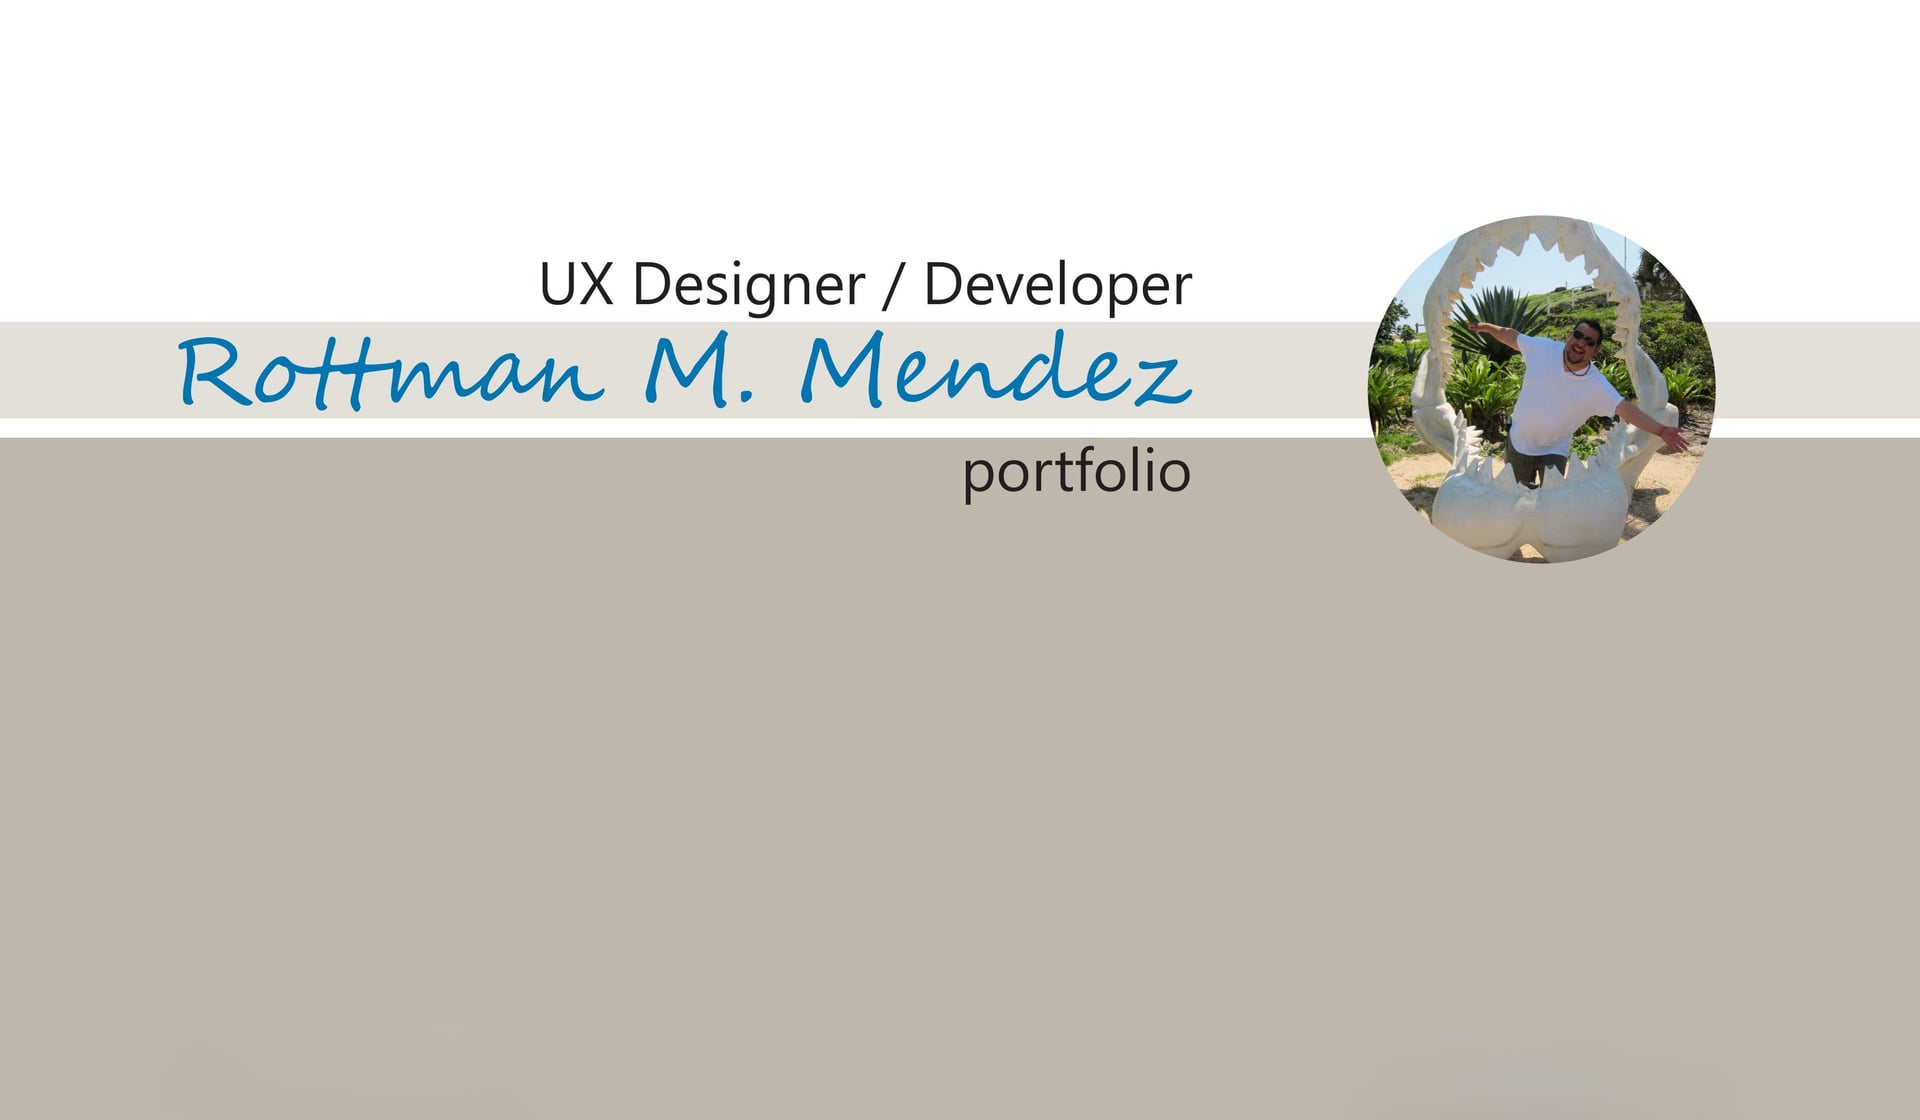
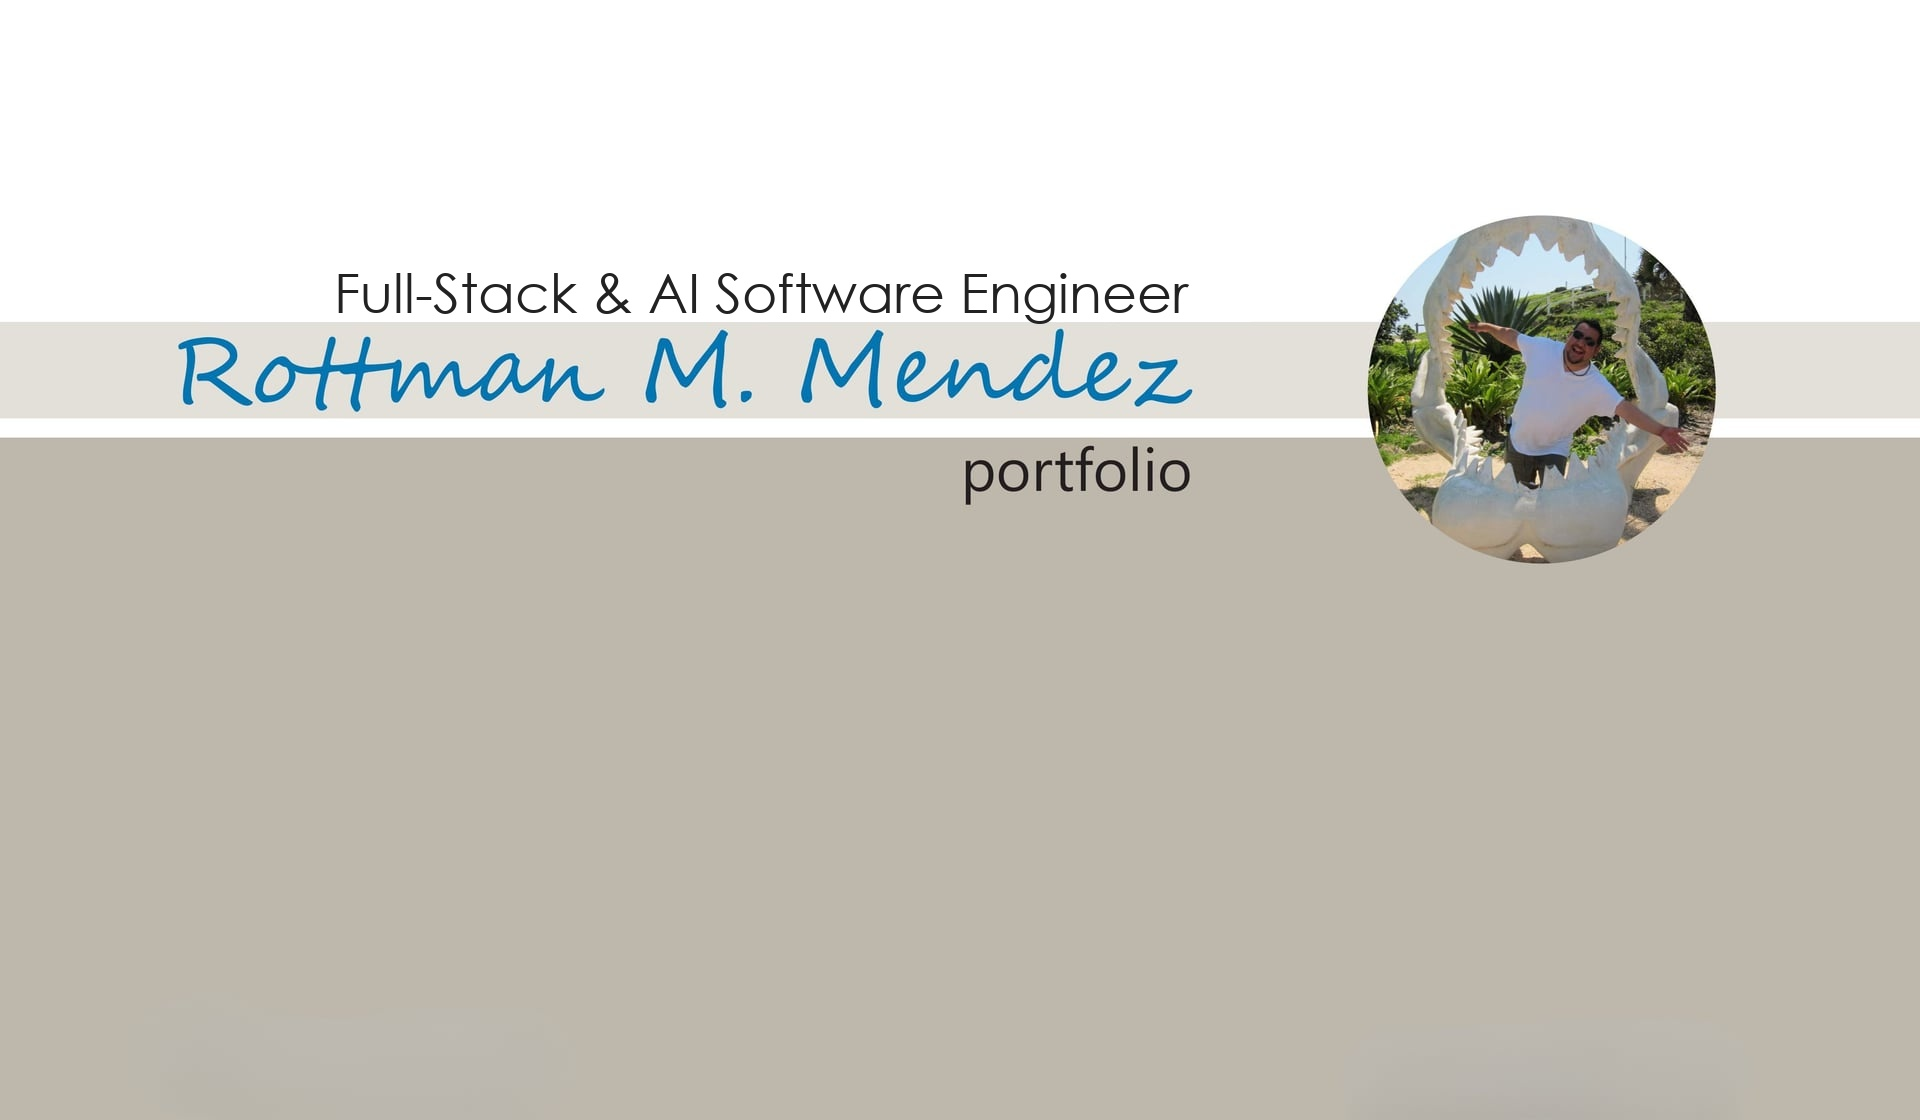
fix(branding): align site titles, metadata, hero copy and graphic with Full-Stack & AI Software Engineer

Changed region(s): [[0.1562, 0.2188, 0.625, 0.2812]]

diff --git a/src/app/layout.tsx b/src/app/layout.tsx
@@ -12,30 +12,32 @@ const inter = Inter({ subsets: ['latin'] });
 export const metadata: Metadata = {
   metadataBase: new URL('https://rottym.com'),
   title: {
-    default: 'Rottman M. Mendez | Full-Stack Web Developer & UX Designer · Reston, VA',
-    template: '%s | RottyM · Reston, VA',
+    default: 'Rottman M. Mendez | Full-Stack & AI Software Engineer · Reston, VA',
+    template: '%s | RottyM · Full-Stack & AI Software Engineer',
   },
   description:
-    'High-performance Next.js websites, custom client portals, and WordPress migrations for businesses in Reston, Fairfax, and Northern Virginia. Enterprise-grade full-stack engineering with fixed pricing.',
+    'High-performance Next.js web applications, AI-augmented cloud platforms, and custom portals for businesses and technical teams in Reston and Northern Virginia. Enterprise full-stack engineering with fixed pricing.',
   keywords: [
-    'Reston web developer',
-    'Northern Virginia web development',
+    'Full-Stack & AI Software Engineer',
+    'AI software engineer Virginia',
+    'Reston software engineer',
     'NoVA full stack developer',
-    'WordPress migration specialist',
     'Next.js developer Virginia',
+    'LLM & RAG integration',
+    'UI/UX Architecture',
+    'WordPress migration specialist',
     'client portal development',
     'custom web applications Reston',
     'React developer DC metro',
-    'local business website design NoVA',
     'RottyM',
   ],
   authors: [{ name: 'Rottman M. Mendez', url: 'https://rottym.com' }],
   creator: 'Rottman M. Mendez',
   publisher: 'Rottman M. Mendez',
   openGraph: {
-    title: 'Rottman M. Mendez | Full-Stack Web Developer & UX Designer · Reston, VA',
+    title: 'Rottman M. Mendez | Full-Stack & AI Software Engineer · Reston, VA',
     description:
-      'Building fast, modern sites that replace slow WordPress. Fixed-price web development and custom client portals for Reston & Northern Virginia businesses.',
+      'Building high-performance web applications, custom portals, and AI-augmented platforms with deep UI/UX architecture expertise for Reston & Northern Virginia businesses.',
     url: 'https://rottym.com',
     siteName: 'RottyM · Full Stack & AI Software Engineer',
     locale: 'en_US',
@@ -45,15 +47,15 @@ export const metadata: Metadata = {
         url: '/images/portfolio/rottman-hero.jpg',
         width: 1200,
         height: 630,
-        alt: 'Rottman M. Mendez - Full-Stack Developer & UX Designer',
+        alt: 'Rottman M. Mendez - Full-Stack & AI Software Engineer',
       },
     ],
   },
   twitter: {
     card: 'summary_large_image',
-    title: 'Rottman M. Mendez | Full-Stack Web Developer · Reston, VA',
+    title: 'Rottman M. Mendez | Full-Stack & AI Software Engineer · Reston, VA',
     description:
-      'Building fast, modern sites that replace slow WordPress. Fixed-price web development and client portals for Reston & Northern Virginia businesses.',
+      'Building high-performance web applications, custom portals, and AI-augmented platforms with deep UI/UX architecture expertise for Reston & Northern Virginia businesses.',
     images: ['/images/portfolio/rottman-hero.jpg'],
   },
   robots: {
@@ -75,7 +77,7 @@ export const metadata: Metadata = {
 const jsonLd = {
   '@context': 'https://schema.org',
   '@type': 'ProfessionalService',
-  name: 'RottyM - Full-Stack Developer & UX Designer',
+  name: 'RottyM - Full-Stack & AI Software Engineer',
   image: 'https://rottym.com/images/portfolio/rottman-hero.jpg',
   '@id': 'https://rottym.com',
   url: 'https://rottym.com',
@@ -105,21 +107,22 @@ const jsonLd = {
   founder: {
     '@type': 'Person',
     name: 'Rottman M. Mendez',
-    jobTitle: 'Full-Stack Software Engineer & UX Designer',
+    jobTitle: 'Full-Stack & AI Software Engineer',
     url: 'https://rottym.com',
   },
   knowsAbout: [
+    'AI Systems & LLM Orchestration',
     'Next.js',
     'React',
     'TypeScript',
+    'UI/UX Architecture',
+    'Cloud Architecture (GCP, AWS, Firebase)',
     'WordPress Migration',
     'Client Portals',
-    'Cloud Architecture',
-    'UX Design',
     'Full-Stack Web Development',
   ],
   description:
-    'High-performance web development, custom client portals, and WordPress escape rebuilds for businesses in Reston and Northern Virginia.',
+    'High-performance web development, custom client portals, and AI-augmented cloud platforms for businesses in Reston and Northern Virginia.',
 };
 
 export default function RootLayout({ children }: { children: React.ReactNode }) {

diff --git a/src/app/page.tsx b/src/app/page.tsx
@@ -110,7 +110,7 @@ export default function Home() {
             </div>
 
             <p className="text-lg sm:text-xl text-muted-foreground leading-relaxed max-w-xl font-medium">
-              Reston-based full-stack developer and UX designer. I build high-performance sites, custom portals, and WordPress escape rebuilds with the precision of enterprise work at Disney, FEMA, and BAE Systems.
+              Reston-based Full-Stack &amp; AI Software Engineer with deep UI/UX architecture expertise. I build high-performance web platforms, custom portals, and AI-augmented applications with the precision of enterprise work at Disney, FEMA, and BAE Systems.
             </p>
 
             <div className="inline-flex items-center gap-2.5 px-4 py-2 rounded-full border border-slate-200/90 dark:border-white/10 bg-slate-100/90 dark:bg-slate-900/60 backdrop-blur-md shadow-sm text-xs font-medium">
@@ -160,7 +160,7 @@ export default function Home() {
                 <div className="absolute -top-12 -right-12 w-40 h-40 bg-accent/20 rounded-full blur-2xl group-hover:scale-125 transition-transform duration-500 pointer-events-none z-10" />
                 <img
                   src="/images/portfolio/rottman-hero.jpg"
-                  alt="Rottman Mendez Portfolio"
+                  alt="Rottman Mendez - Full-Stack & AI Software Engineer Portfolio"
                   className="w-full h-auto object-cover grayscale-[15%] group-hover:grayscale-0 group-hover:scale-[1.02] transition-all duration-700"
                 />
                 <div className="absolute inset-0 bg-gradient-to-t from-background/80 via-transparent to-transparent opacity-40 group-hover:opacity-10 transition-opacity" />
